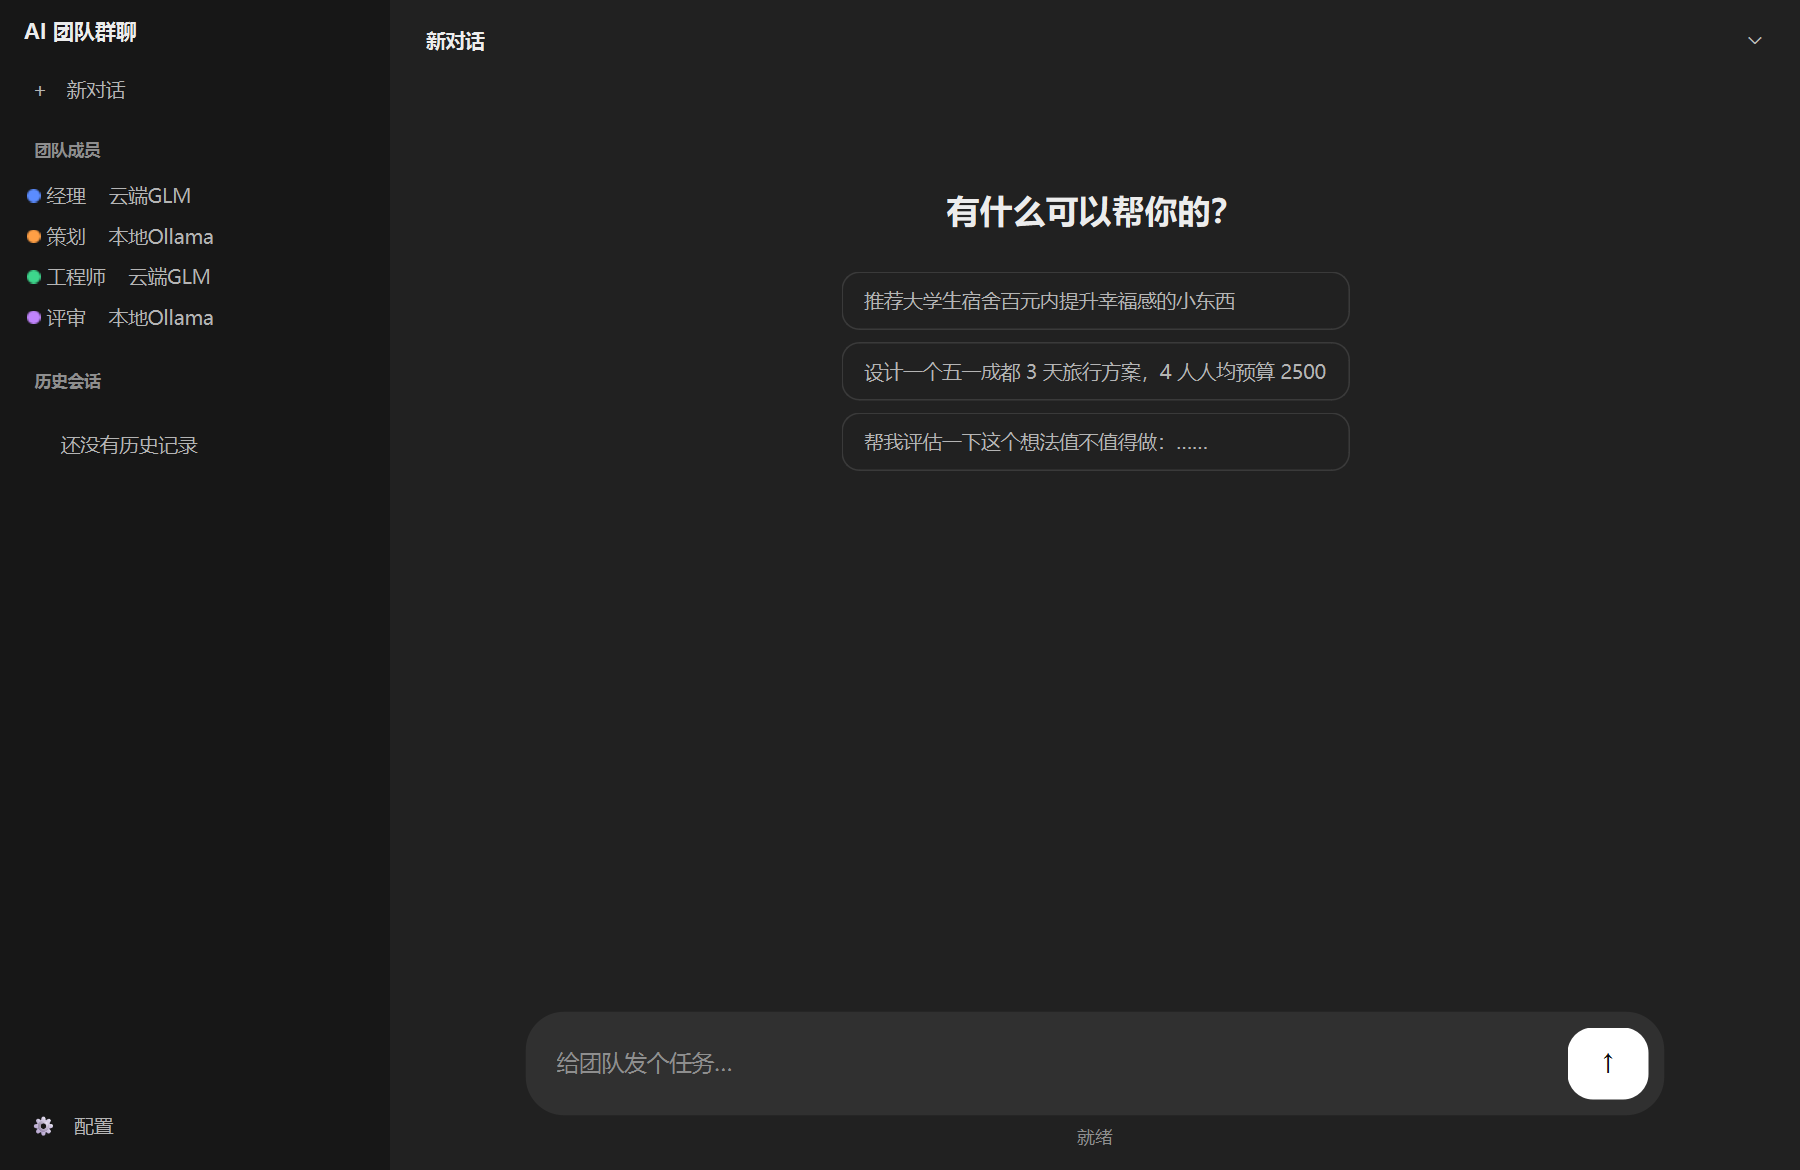
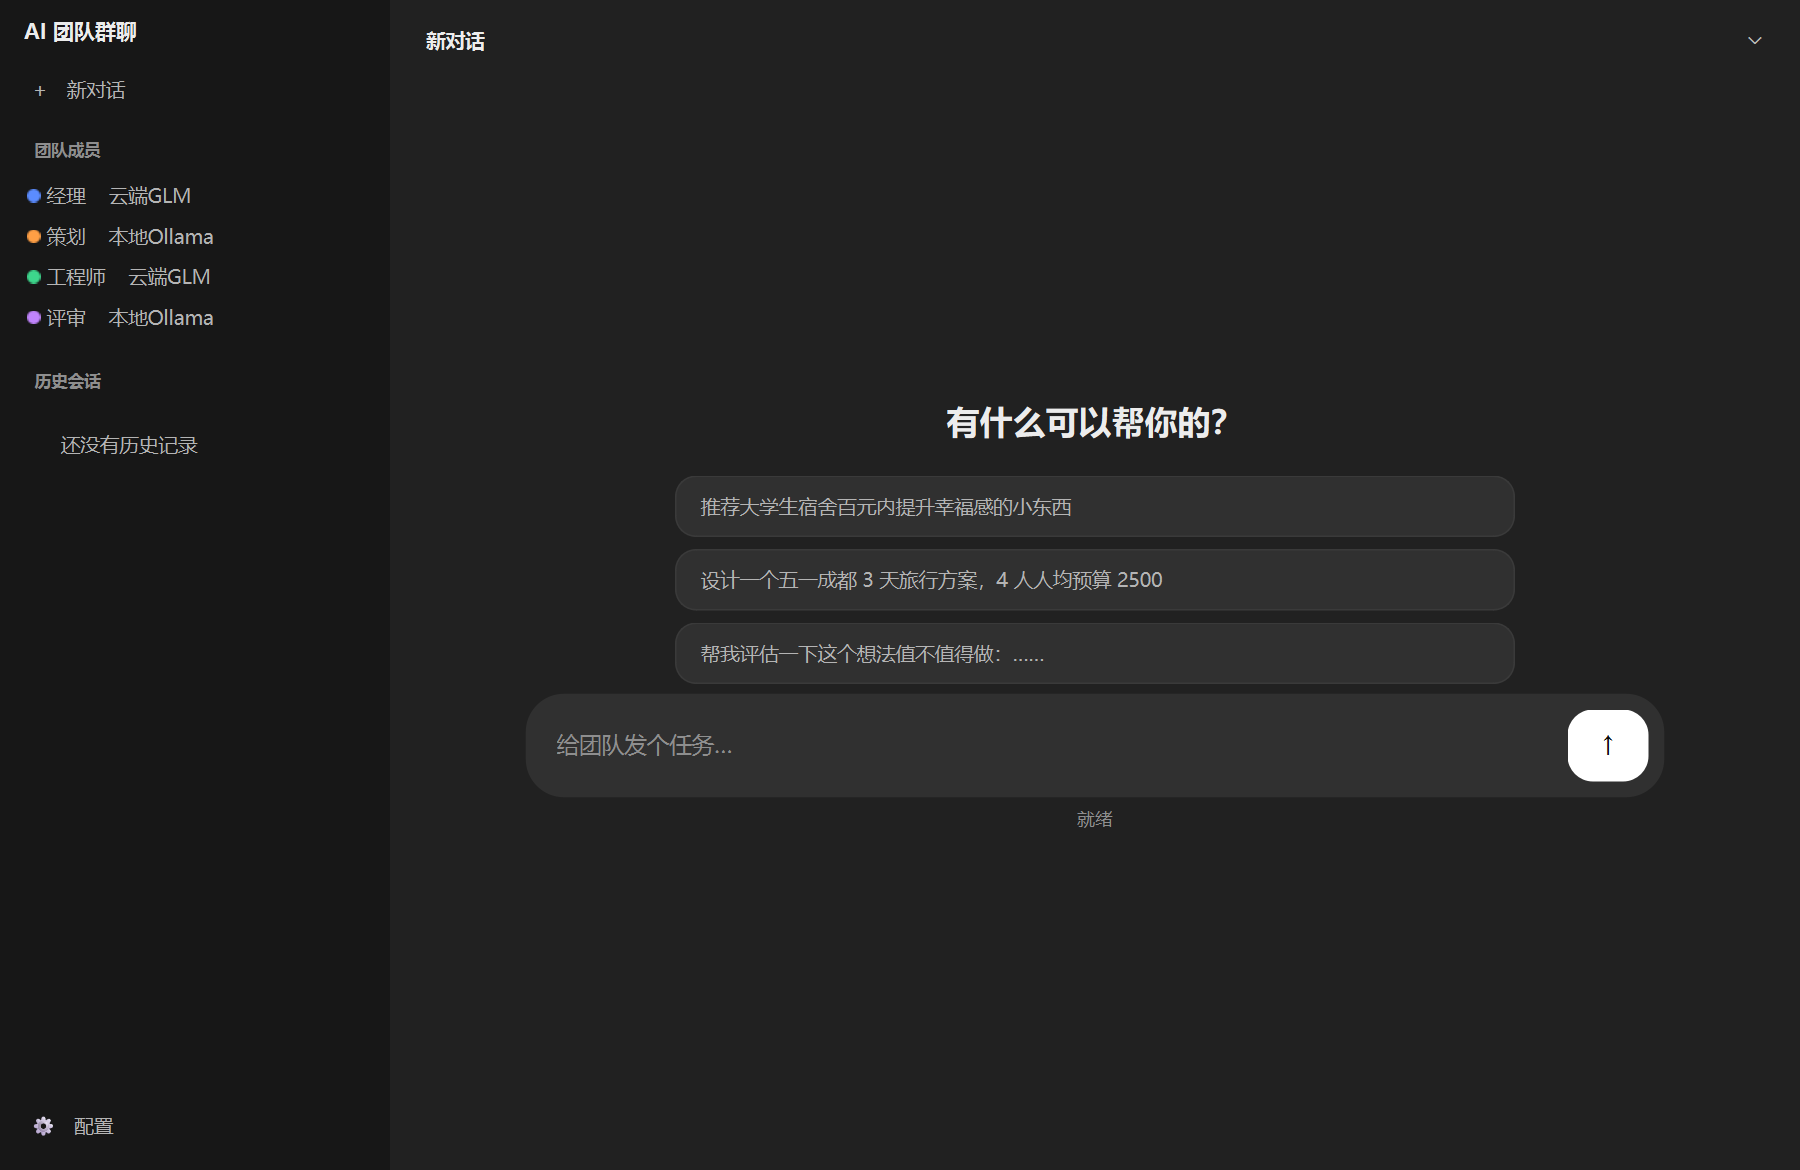
空状态改成 ChatGPT 那样：标题+示例+输入框整组垂直居中
用户反馈"界面不好看，不像 ChatGPT"。量他的截图找到真正的差别 ——
不是配色或圆角，是布局骨架：

    标题        y=260
    示例芯片    345 ~ 495
    缺配置提示  y=600
    ──────── 600 ~ 1240 整整 640px（窗口高的 45%）全是空白 ────────
    输入框      y=1240

ChatGPT 的空状态是「标题 + 示例 + 输入框」作为一个整体垂直居中，输入框紧跟
示例下方，所以不会出现这块空洞。我原来把输入框钉死在窗口底部，中间就空掉了。

做法：把输入框放进同一条竖直布局，靠上下两个弹簧的伸缩比例控制位置 ——
    顶栏 / 上弹簧 / 空状态块 / 消息区 / 输入区 / 下弹簧
空状态时两个弹簧都撑开、整组居中；开始对话后上弹簧收掉、消息区撑开，
输入框自然落到底部。不用搬运控件，只调可见性和 stretch。

实测：输入框从 y≈1240 上移到 y≈734，整组跨度 390~770、中心 580 ≈ 窗口中心 585，
上下留白变均衡，原来那块空洞没了。

顺带
- 示例芯片加了背景填充和更明显的描边：原来只有 1px 的 #3A3A3A 细线，
  在 #212121 底上几乎看不出边界，像悬空的文字。
- 缺配置提示条限宽 560 并把文字折行。它和示例芯片一样设了 560，但实际撑到
  约 650、右边多出一截 —— 还是"开了 wordWrap 的 QLabel 给出偏大 sizeHint"
  那个坑（之前用户气泡被挤窄是同一个坑的反面）。现在两者左边缘都在 x≈701，齐了。

测试：5 个测试文件共 165 项断言全过（空状态移出消息区后，UI 测试的断言也跟着改了）。

diff --git a/desktop_app.py b/desktop_app.py
@@ -207,9 +207,14 @@ class SystemMessage(QWidget):
 
 
 class NoticeMessage(QWidget):
-    """带一个动作按钮的提示（例如"配置不完整 → 去配置"）。"""
+    """带一个动作按钮的提示（例如"配置不完整 → 去配置"）。
 
-    def __init__(self, text: str, action_text: str, on_action, parent=None):
+    width 不为空时整体限宽，并按可用空间把文字折行 —— 否则开了 wordWrap 的
+    QLabel 会给出偏大的 sizeHint，把整条提示顶得比旁边的示例芯片还宽。
+    """
+
+    def __init__(self, text: str, action_text: str, on_action,
+                 width: int = None, parent=None):
         super().__init__(parent)
         frame = QFrame()
         frame.setStyleSheet(
@@ -218,7 +223,11 @@ class NoticeMessage(QWidget):
         inner = QHBoxLayout(frame)
         inner.setContentsMargins(14, 10, 10, 10)
         inner.setSpacing(10)
-        inner.addWidget(label(text, "dim", wrap=True), stretch=1)
+        body = label(text, "dim", wrap=True)
+        if width:
+            self.setFixedWidth(width)
+            body.setFixedWidth(max(120, width - 150))   # 给按钮和留白让出空间
+        inner.addWidget(body, stretch=1)
         inner.addWidget(button(action_text, "primary", on_action))
         outer = QVBoxLayout(self)
         outer.setContentsMargins(0, 8, 0, 8)
@@ -1129,8 +1138,24 @@ class MainWindow(QMainWindow):
         top_row.addWidget(self.more_btn)
         column.addWidget(top)
 
+        # 布局骨架（顺序很关键）：
+        #   顶栏 / 上弹簧 / 空状态块 / 消息区 / 输入区 / 下弹簧
+        # 空状态时两个弹簧都撑开，把「标题+示例+输入框」顶到竖直居中；
+        # 开始对话后上弹簧收掉、消息区撑开，输入框自然落到底部。
+        self.column = column
+
+        column.addStretch(1)
+        self._i_stretch_top = column.count() - 1
+
+        self.empty_block = QWidget()
+        self.empty_layout = QVBoxLayout(self.empty_block)
+        self.empty_layout.setContentsMargins(24, 0, 24, 0)
+        self.empty_layout.setSpacing(0)
+        column.addWidget(self.empty_block)
+
         self.area = MessageArea()
         column.addWidget(self.area, stretch=1)
+        self._i_area = column.count() - 1
 
         # 输入区：居中限宽，和正文对齐
         wrap = QWidget()
@@ -1147,6 +1172,10 @@ class MainWindow(QMainWindow):
         bottom = CenteredPane(wrap, margin=24)
         bottom.setContentsMargins(0, 6, 0, 14)
         column.addWidget(bottom)
+        self._i_bottom = column.count() - 1
+
+        column.addStretch(1)
+        self._i_stretch_bottom = column.count() - 1
 
         root.addWidget(content, stretch=1)
         self.setCentralWidget(central)
@@ -1158,21 +1187,82 @@ class MainWindow(QMainWindow):
     def _reload_sidebar(self):
         self.sidebar.reload_history(list_history())
 
+    def _set_empty_layout(self, empty: bool):
+        """在「空状态」和「对话中」两种骨架之间切换。"""
+        self.empty_block.setVisible(empty)
+        self.area.setVisible(not empty)
+        self.column.setStretch(self._i_stretch_top, 1 if empty else 0)
+        self.column.setStretch(self._i_stretch_bottom, 1 if empty else 0)
+        self.column.setStretch(self._i_area, 0 if empty else 1)
+
+    def _clear_layout(self, layout):
+        while layout.count():
+            item = layout.takeAt(0)
+            widget = item.widget()
+            if widget:
+                widget.deleteLater()
+
+    def _build_empty_state(self):
+        """空状态：一句招呼 + 几个可点的示例 + 缺配置时的提示条。
+
+        它和输入框一起竖直居中 —— 这样中间不会空出一大块。
+        """
+        self._clear_layout(self.empty_layout)
+
+        heading = label("有什么可以帮你的？", "empty")
+        heading.setAlignment(Qt.AlignCenter)
+        self.empty_layout.addSpacing(4)
+        self.empty_layout.addWidget(heading)
+        self.empty_layout.addSpacing(22)
+
+        chips = QWidget()
+        chip_layout = QVBoxLayout(chips)
+        chip_layout.setContentsMargins(0, 0, 0, 0)
+        chip_layout.setSpacing(8)
+        for hint in EMPTY_HINTS:
+            chip = button(hint, on_click=lambda _=False, h=hint: self._use_hint(h))
+            chip.setStyleSheet(
+                "QPushButton { background: %s; color: %s; border: 1px solid %s;"
+                "border-radius: 14px; padding: 11px 16px; font-size: 10pt;"
+                "text-align: left; }"
+                "QPushButton:hover { background: %s; border-color: %s; color: %s; }"
+                % (theme.SURFACE, theme.TEXT_DIM, theme.BORDER,
+                   theme.SURFACE_ACTIVE, theme.BORDER_STRONG, theme.TEXT))
+            chip_layout.addWidget(chip)
+        row = QHBoxLayout()
+        row.setContentsMargins(0, 0, 0, 0)
+        row.addStretch(1)
+        chips.setFixedWidth(min(560, theme.CONTENT_MAX_WIDTH))
+        row.addWidget(chips)
+        row.addStretch(1)
+        self.empty_layout.addLayout(row)
+
+        problems = self.load_result.problems
+        if problems:
+            self.empty_layout.addSpacing(20)
+            notice_row = QHBoxLayout()
+            notice_row.setContentsMargins(0, 0, 0, 0)
+            notice_row.addStretch(1)
+            notice = NoticeMessage(
+                "还差 %d 项就能开始了：%s" % (len(problems), "；".join(problems[:2])),
+                "去配置", self.open_config,
+                width=min(560, theme.CONTENT_MAX_WIDTH))
+            notice_row.addWidget(notice)
+            notice_row.addStretch(1)
+            self.empty_layout.addLayout(notice_row)
+
     def _start_fresh_view(self):
         self._refresh_team_label()
         self._reload_sidebar()
-        problems = self.load_result.problems
         self.area.clear()
-        self.area.show_empty_state("有什么可以帮你的？", EMPTY_HINTS, self._use_hint)
+        self._build_empty_state()
+        self._set_empty_layout(True)
         if self.load_result.recovered:
-            self.area.add_system("上次的配置文件损坏了，已备份为 %s 并恢复默认配置。"
-                                 % os.path.basename(self.load_result.backup_path or "备份文件"))
-        for note in self.load_result.notes:
-            self.area.add_system(note)
-        if problems:
-            self.area.add_notice(
-                "还差 %d 项就能开始了：%s" % (len(problems), "；".join(problems[:2])),
-                "去配置", self.open_config)
+            self.status.setText("上次的配置文件损坏了，已备份并恢复默认配置。")
+        elif self.load_result.notes:
+            self.status.setText(self.load_result.notes[0])
+        else:
+            self.status.setText("就绪")
         self._update_placeholder()
 
     def _use_hint(self, text: str):
@@ -1217,6 +1307,7 @@ class MainWindow(QMainWindow):
         is_followup = session.has_context
         if not is_followup:
             self.area.clear()
+            self._set_empty_layout(False)
             self.cur_task = task
             self.cur_messages = [{"kind": "user", "name": "我", "content": task}]
             self.title_label.setText(task[:26] + ("…" if len(task) > 26 else ""))
@@ -1265,6 +1356,7 @@ class MainWindow(QMainWindow):
         self.composer.input.setEnabled(False)
         self.title_label.setText(data.get("task", "历史记录")[:26])
         self.area.clear()
+        self._set_empty_layout(False)
         self.area.add_system("这是 %s 的历史记录（只读）。点侧栏「＋ 新对话」回到当前对话。"
                              % data.get("time", ""))
         self.area.add_user(data.get("task", ""))
